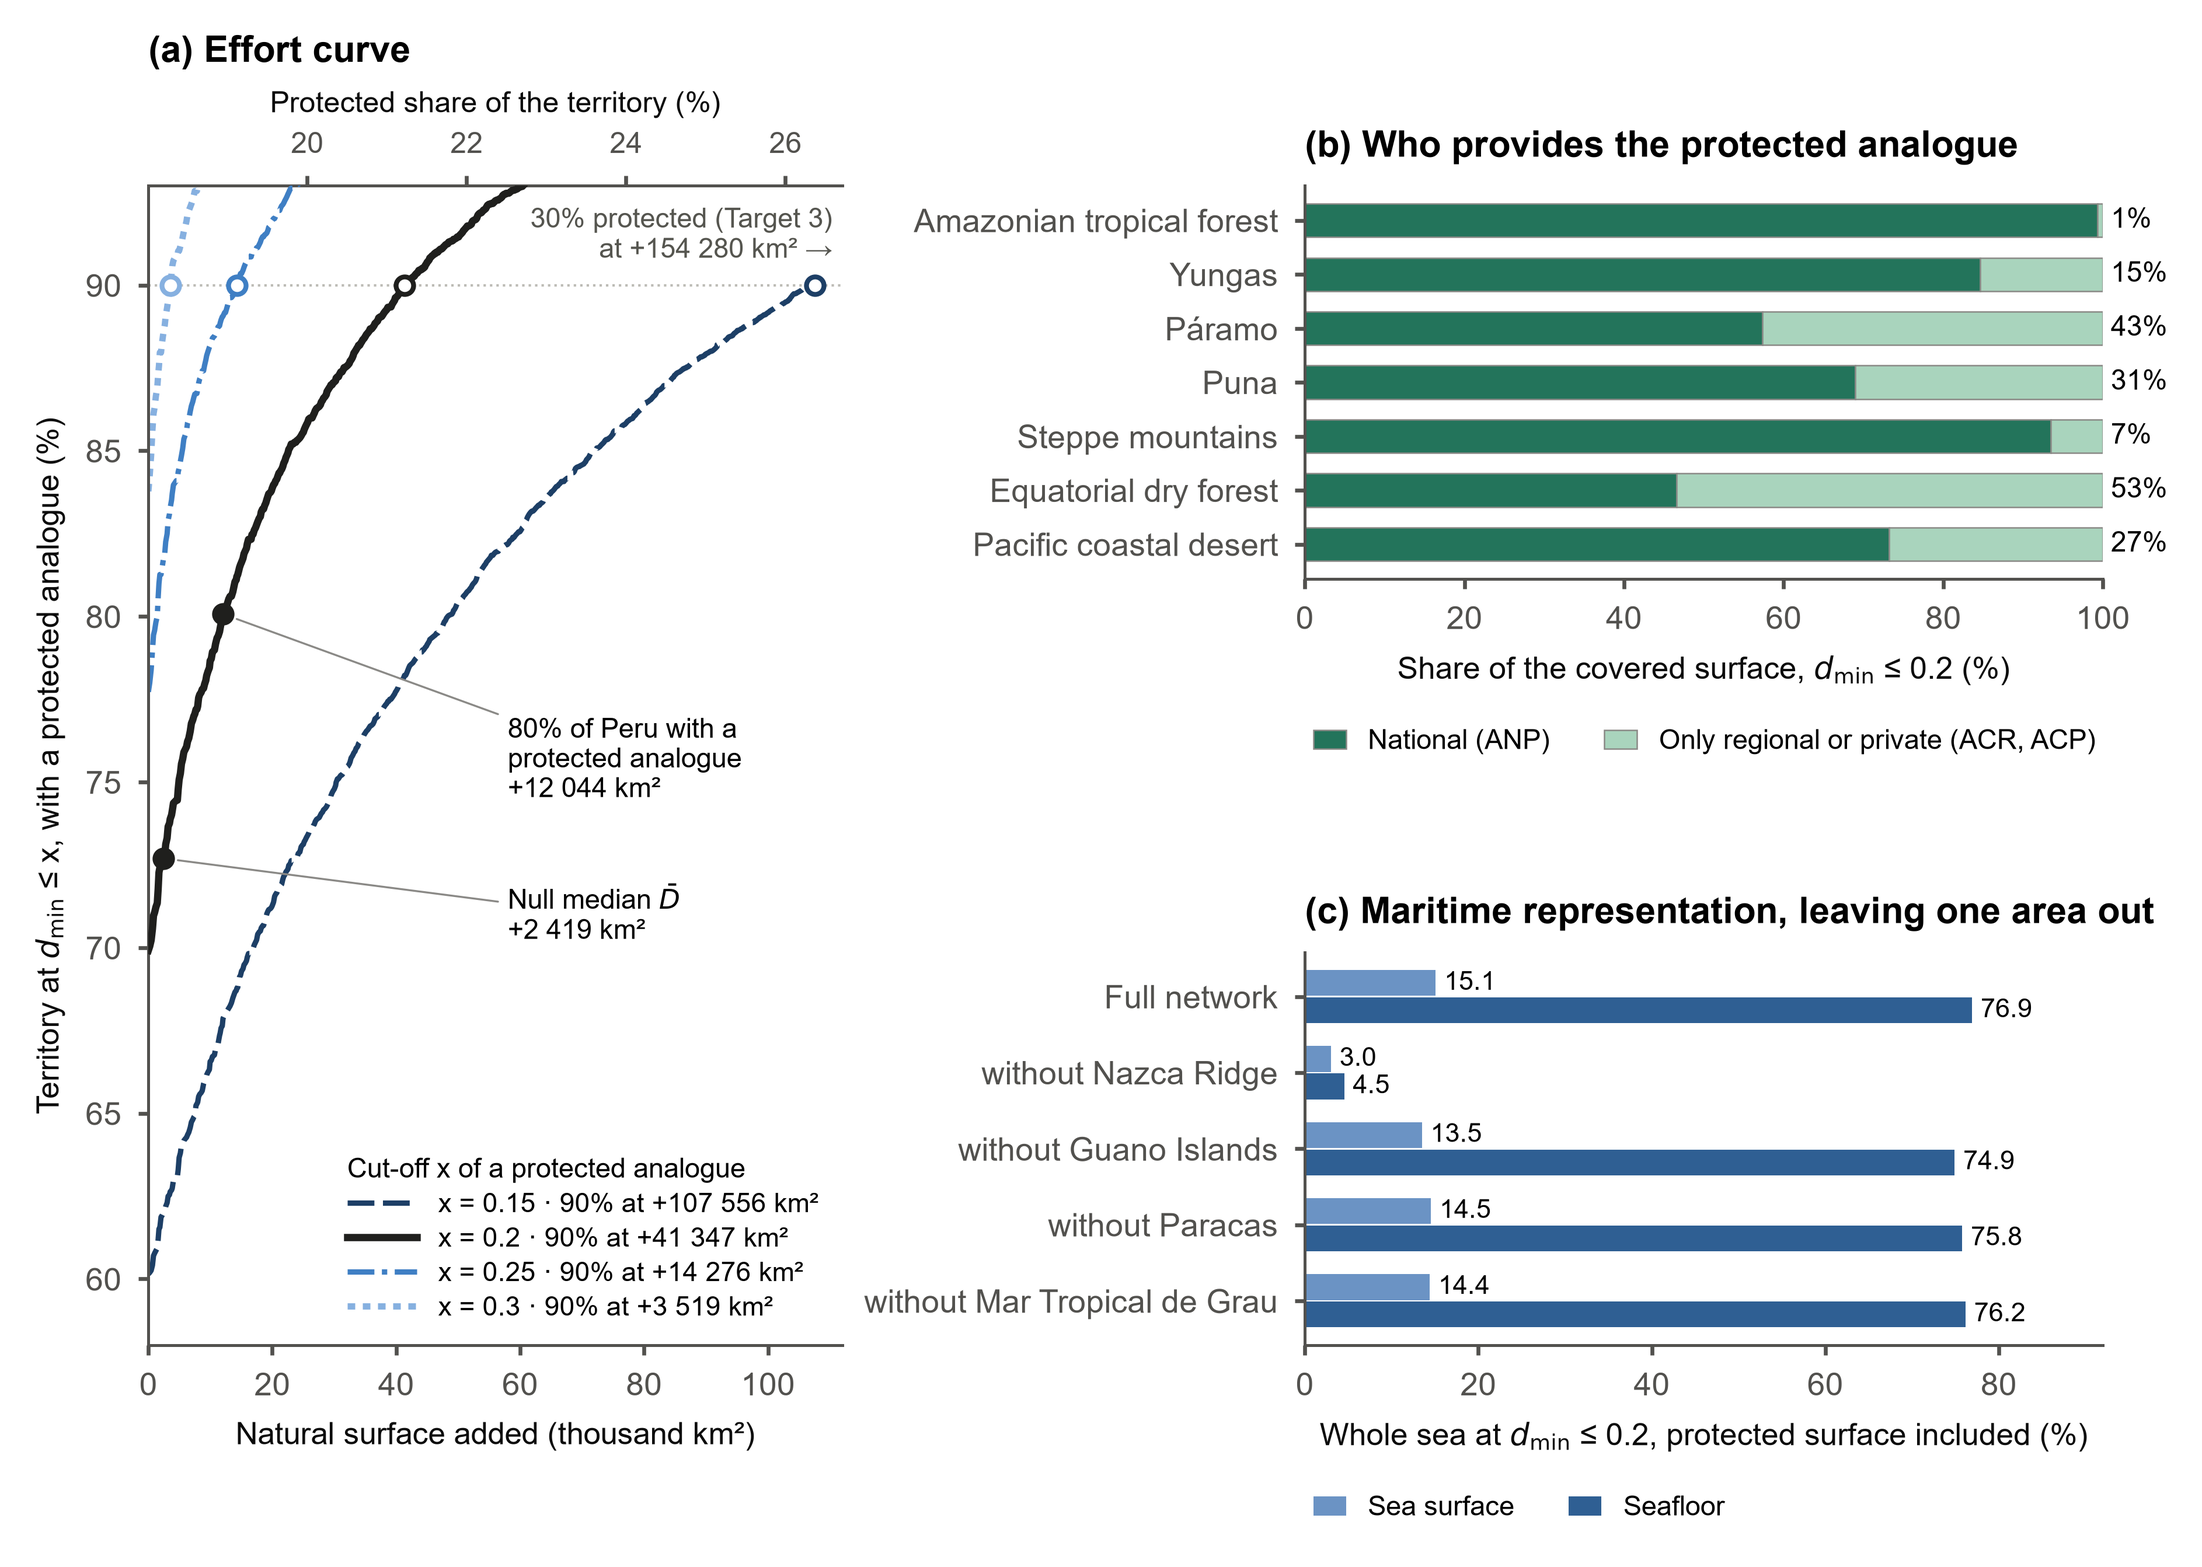
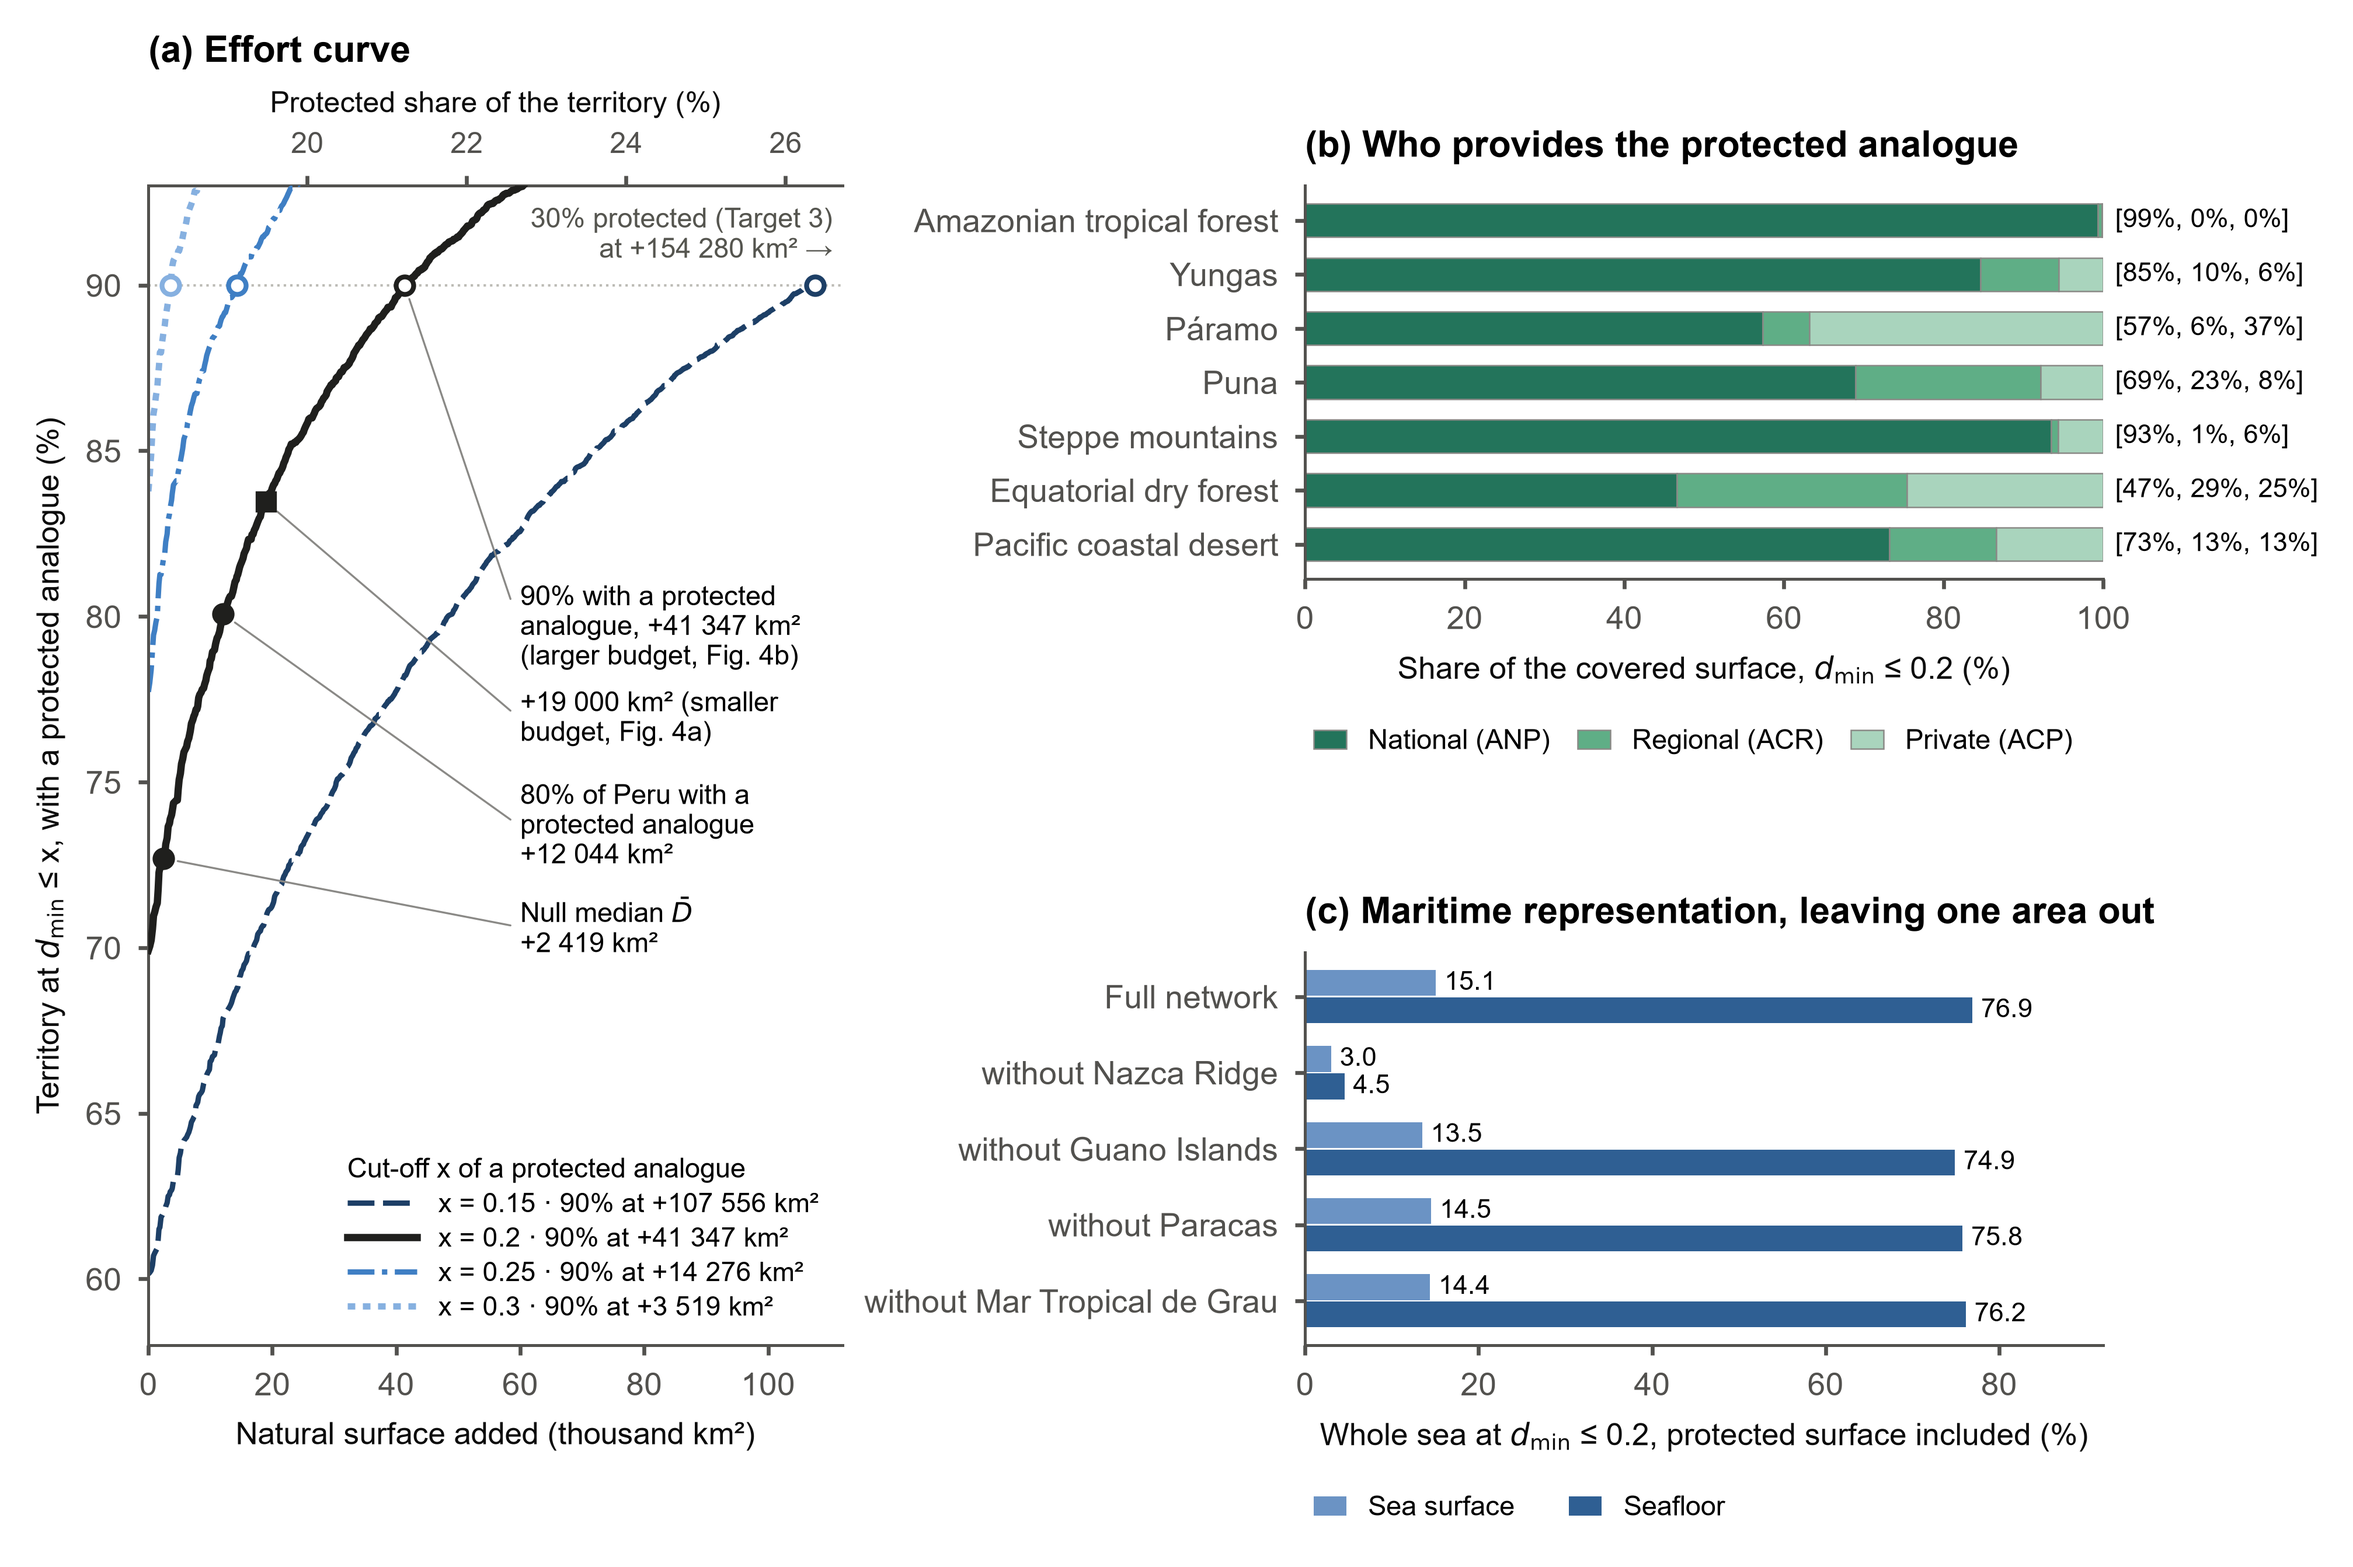
Fig. 3: ANP, ACR and ACP apart in (b); both prioritization budgets on the effort curve (a)
(b) splits the covered surface that only regional or private areas provide by the tier
holding the most similar protected climate, with [ANP, ACR, ACP] shares at the end of each bar.
(a) labels the 90% point (41 347 km², larger budget) and marks 19 000 km² (smaller budget).

diff --git a/figuras_tablas/figuras_articulo.py b/figuras_tablas/figuras_articulo.py
@@ -221,8 +221,17 @@ def fig3():
         x = P[k]['agregado_km2']; yv = np.interp(x, cu.agregado_km2, cu.F02) * 100
         b.plot(x / 1e3, yv, 'o', ms=3.6, color='#1f1f1d', zorder=4)
         # labels in the empty lower right, joined to their points, so no text crosses the curves of the other cut-offs
-        b.annotate(f'{lab}\n+{en(x)} km²', (x / 1e3, yv), xytext=(58, 77 if k == 'alcanza_F02_80' else 72), textcoords='data',
-                   fontsize=5.6, ha='left', va='top', arrowprops=dict(arrowstyle='-', color='#8a8986', lw=.4, shrinkA=0, shrinkB=3))
+        b.annotate(f'{lab}\n+{en(x)} km²', (x / 1e3, yv), xytext=(60, 75 if k == 'alcanza_F02_80' else 71.6), textcoords='data',
+                   fontsize=5.6, ha='left', va='top', arrowprops=dict(arrowstyle='-', color='#8a8986', lw=.4, shrinkA=0, shrinkB=3, relpos=(0, .5)))
+    # the 90% point at 0.2 is the larger budget of the prioritization; the smaller budget is marked on the same curve (Fig. 4a, b)
+    x90 = um[.2]
+    b.annotate(f'90% with a protected\nanalogue, +{en(x90)} km²\n(larger budget, Fig. 4b)', (x90 / 1e3, 90), xytext=(60, 81),
+               textcoords='data', fontsize=5.6, ha='left', va='top',
+               arrowprops=dict(arrowstyle='-', color='#8a8986', lw=.4, shrinkA=0, shrinkB=3, relpos=(0, .5)))
+    x19 = 19000; y19 = np.interp(x19, cu.agregado_km2, cu.F02) * 100
+    b.plot(x19 / 1e3, y19, 's', ms=3.4, color='#1f1f1d', zorder=4)
+    b.annotate(f'+{en(x19)} km² (smaller\nbudget, Fig. 4a)', (x19 / 1e3, y19), xytext=(60, 77.8), textcoords='data', fontsize=5.6,
+               ha='left', va='top', arrowprops=dict(arrowstyle='-', color='#8a8986', lw=.4, shrinkA=0, shrinkB=3, relpos=(0, .5)))
     b.legend(title='Cut-off x of a protected analogue', title_fontsize=5.6, fontsize=5.5, frameon=False, loc='lower right',
              handlelength=2.6, labelspacing=.35, alignment='left')
     b.set_xlim(0, 112); b.set_ylim(58, 93); _ejes(b)
@@ -236,21 +245,24 @@ def fig3():
     b.annotate(f'30% protected (Target 3)\nat +{en(falta)} km² →', xy=(1, 1), xycoords='axes fraction', xytext=(-2, -4),
                textcoords='offset points', ha='right', va='top', fontsize=5.7, color='#55554f')
     _titulo(b, '(a) Effort curve')
-    # (b) role of ACR and ACP: surface at d <= 0.2 that only regional and private areas provide
+    # (b) role of each tier: surface at d <= 0.2 covered by ANP, and the rest, which only ACR or ACP cover, by the tier of its
+    # most similar protected climate; [ANP, ACR, ACP] shares at the end of each bar
     c = fig.add_subplot(gs[0, 1])
     m = pd.read_csv(IMP / 'P2_modalidades_por_ecorregion.csv').set_index('nombre')
     eco = ECO7
+    TIERS = (('cubierta_solo_ANP_km2', VERDE, 'National (ANP)'), ('solo_ACR_ACP_proveedora_ACR_km2', '#5fae86', 'Regional (ACR)'),
+             ('solo_ACR_ACP_proveedora_ACP_km2', VERDE_CLARO, 'Private (ACP)'))
     for i, e in enumerate(eco):
         r = m.loc[ECO_ES[e]]
-        anp = r.cubierta_solo_ANP_km2 / r.cubierta_red_km2 * 100
-        c.barh(i, anp, color=VERDE, ec='#8a8986', lw=.3, height=.62, label='National (ANP)' if i == 0 else None)
-        c.barh(i, 100 - anp, left=anp, color=VERDE_CLARO, ec='#8a8986', lw=.3, height=.62,
-               label='Only regional or private (ACR, ACP)' if i == 0 else None)
-        c.text(101, i, f'{100 - anp:.0f}%', va='center', fontsize=5.8)
+        sh = [r[k] / r.cubierta_red_km2 * 100 for k, _, _ in TIERS]
+        assert abs(sum(sh) - 100) < 1e-6, e
+        for j, (_, col, lab) in enumerate(TIERS):
+            c.barh(i, sh[j], left=sum(sh[:j]), color=col, ec='#8a8986', lw=.3, height=.62, label=lab if i == 0 else None)
+        c.text(101.5, i, '[' + ', '.join(f'{v:.0f}%' for v in sh) + ']', va='center', fontsize=5.4)
     c.set_yticks(range(len(eco))); c.set_yticklabels([ECO_EN[e].replace('High jungle (Yungas)', 'Yungas') for e in eco], fontsize=6)
     c.invert_yaxis(); c.set_xlim(0, 100); _ejes(c)
     c.set_xlabel('Share of the covered surface, $d_{\\mathrm{min}}$ ≤ 0.2 (%)', fontsize=6.4)
-    c.legend(fontsize=5.6, frameon=False, ncol=2, loc='upper left', bbox_to_anchor=(-.02, -.32), handlelength=1.2)
+    c.legend(fontsize=5.6, frameon=False, ncol=3, loc='upper left', bbox_to_anchor=(-.02, -.32), handlelength=1.2, columnspacing=1)
     _titulo(c, '(b) Who provides the protected analogue')
     # (c) leave one out at sea
     dd = fig.add_subplot(gs[1, 1])
